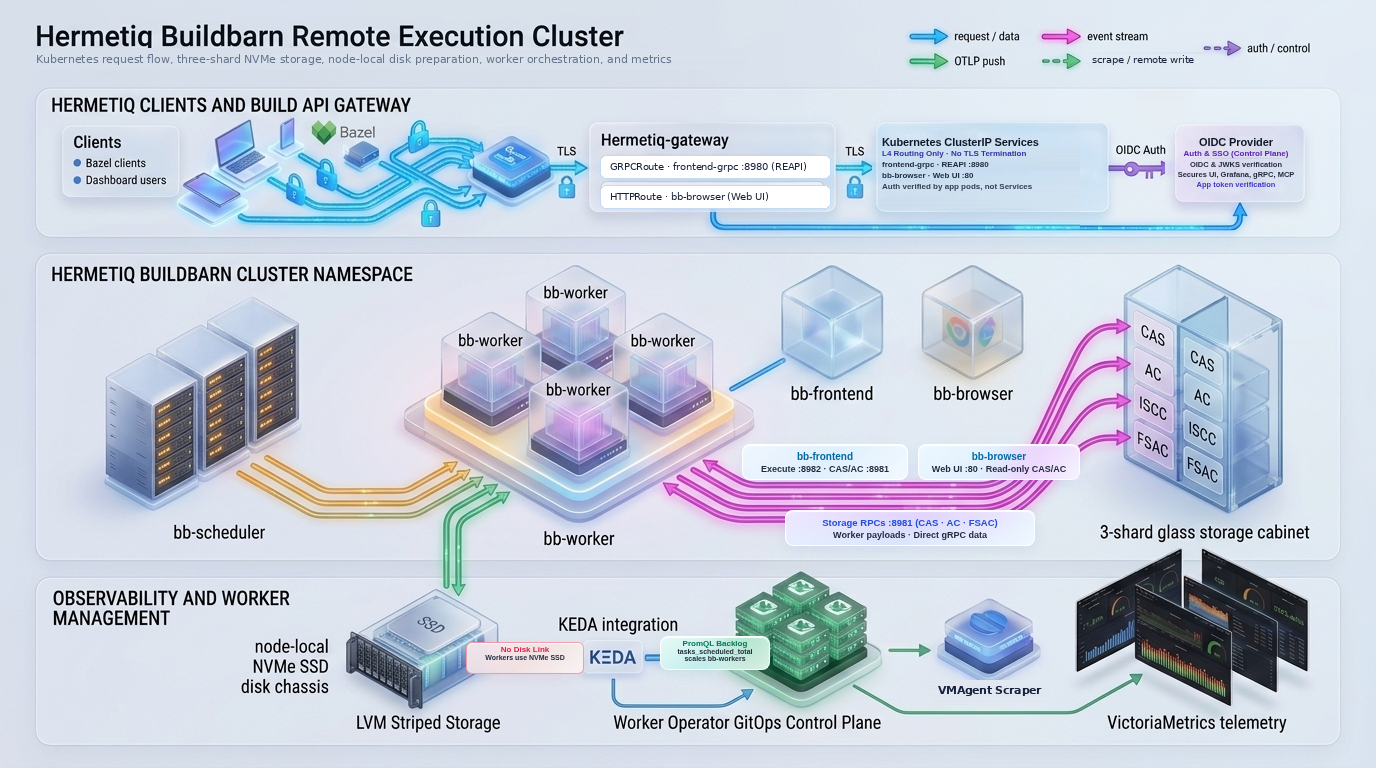
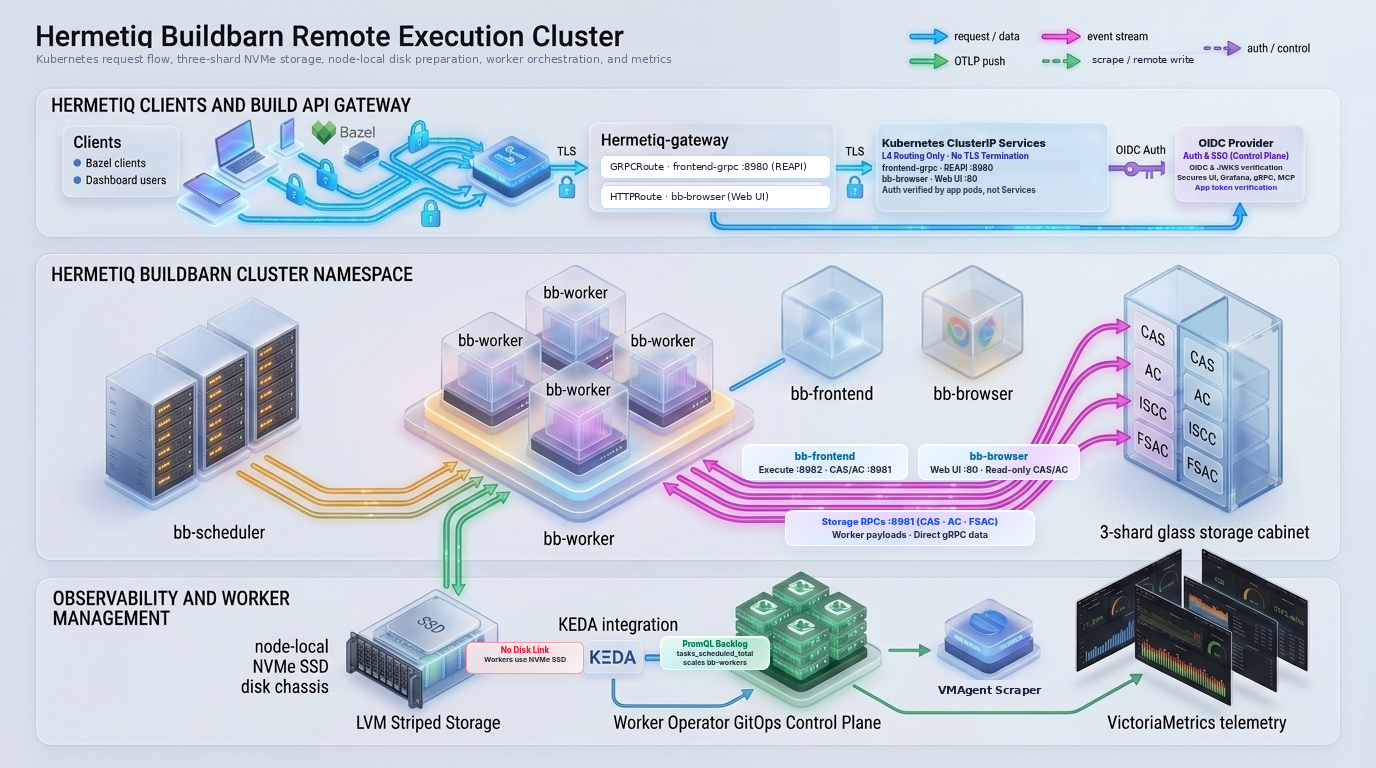
docs: restore clean compressed stdout / stderr chunks label on platform architecture diagram
- Inpaint garbled AI text ('cuclossed sddret / bucksttent') next to upper GCS bucket in hermetiq-gke-deployment.png.
- Add crisp vector typography label 'compressed stdout / stderr chunks' (10px, Inter 700).
- Add __pycache__/ and *.pyc to .gitignore.

diff --git a/scripts/generate_diagrams.py b/scripts/generate_diagrams.py
@@ -209,6 +209,8 @@ def prepare_clean_base_images():
     d1_base = inpaint_text_smooth(d1_base, (872, 128, 1106, 222), lum_threshold=185)
     # Clean OIDC Provider inside card: (1165, 126, 1295, 196)
     d1_base = inpaint_text_smooth(d1_base, (1165, 126, 1295, 196), lum_threshold=185)
+    # Clean garbled stderr text next to upper GCS bucket: (1230, 320, 1330, 400)
+    d1_base = inpaint_text_smooth(d1_base, (1230, 320, 1330, 400), lum_threshold=185)
     clean_d1_path = TMP_DIR / "clean_d1.png"
     d1_base.save(clean_d1_path)
 
@@ -484,6 +486,11 @@ def build_d1_html(bg_path: Path) -> str:
   <div class="glass-cyan" style="top: 464px; left: 865px; width: 165px; height: 38px; padding: 4px 6px; text-align: center;">
     <div style="font-size: 8.5px; font-weight: 800; color: #0284c7;">Direct Chunk Offload</div>
     <div style="font-size: 7.5px; font-weight: 700; color: #1e293b; margin-top: 1px;">Subscribers upload stdout/stderr to GCS</div>
+  </div>
+
+  <!-- Section 2: GCS compressed stdout/stderr chunks label -->
+  <div style="position: absolute; z-index: 10; top: 348px; left: 1244px; width: 120px;">
+    <div style="font-size: 10px; font-weight: 700; color: #1e293b; line-height: 1.35;">compressed stdout /<br>stderr chunks</div>
   </div>
 
   <!-- Section 3: Finding 4 - VMAgent Scraper -->
